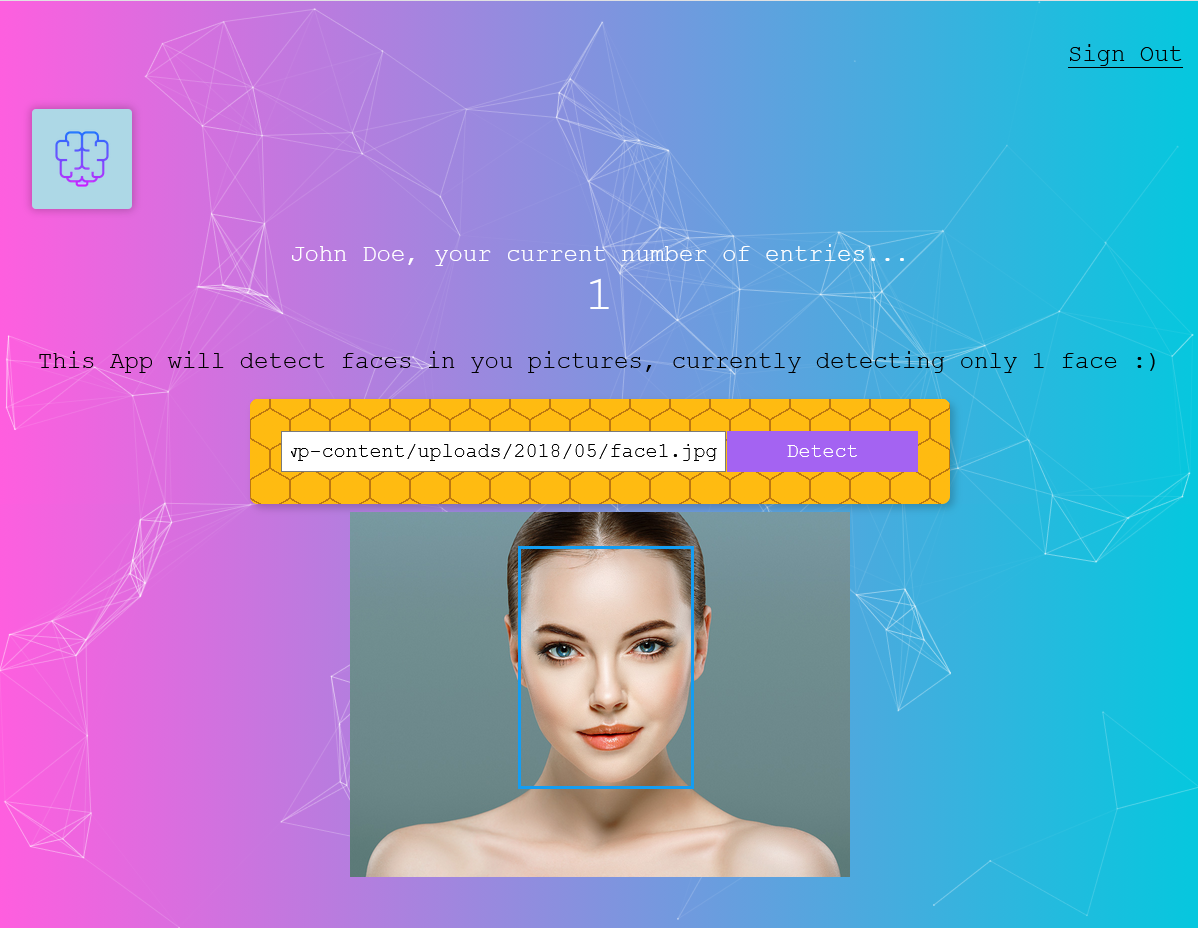
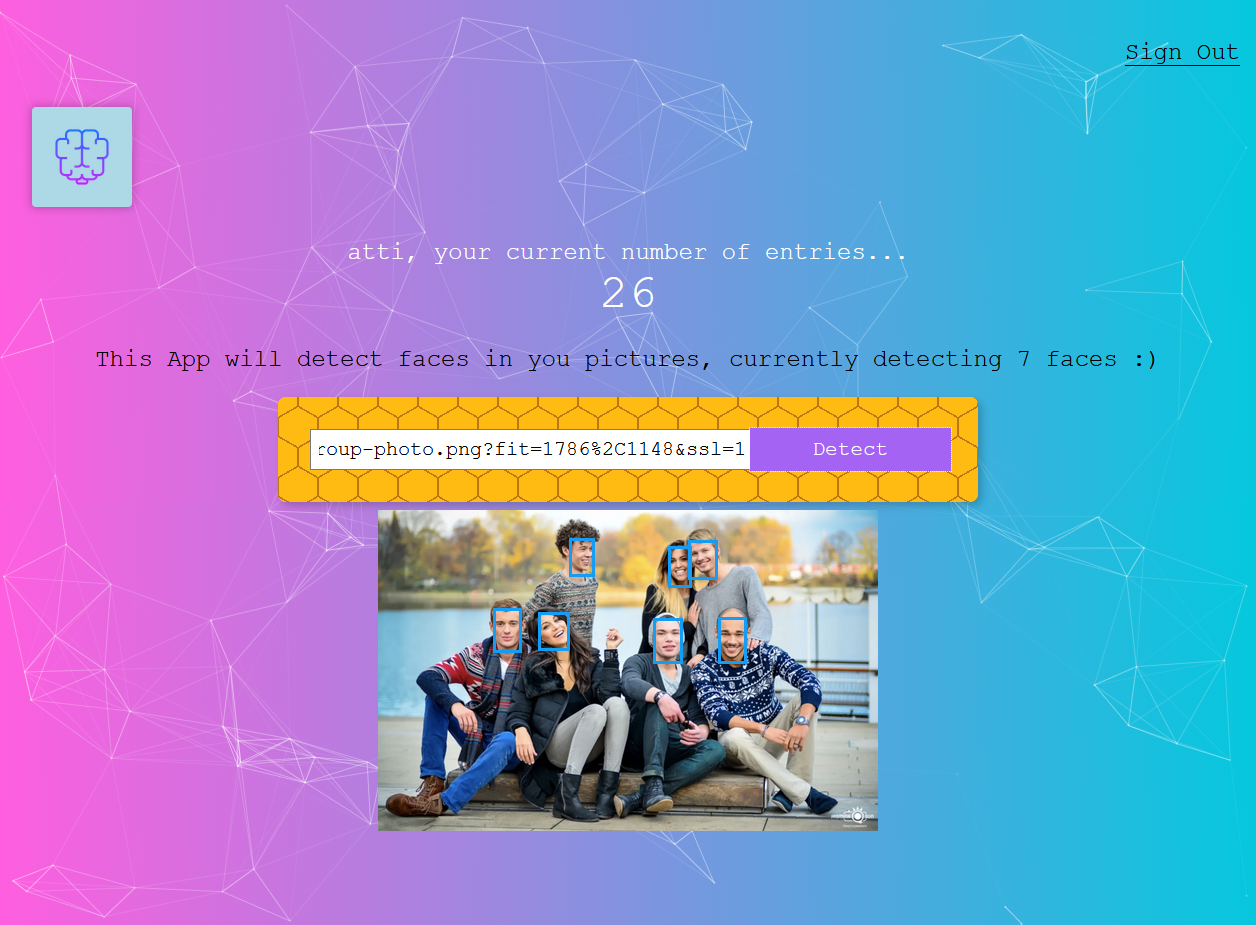
added multiple face detection

diff --git a/src/App.js b/src/App.js
@@ -24,7 +24,8 @@ const particleConf = {
 const initialState = {
     input: '',
     imageUrl: '',
-    box: {},
+    boxes: [],
+    detected: 0,
     route: 'signin',
     isSignedIn: false,
     user: {
@@ -53,20 +54,23 @@ class App extends Component {
   }
 
   calculateFaceLocation = (data) => {
-    const clarifaiFace = data.outputs[0].data.regions[0].region_info.bounding_box;
+    const clariFaces = data.outputs[0].data.regions;
     const image = document.getElementById('inputimage');
     const width = Number(image.width);
     const height = Number(image.height);
-    return {
-      leftCol: clarifaiFace.left_col * width,
-      topRow: clarifaiFace.top_row * height,
-      rightCol: width - (clarifaiFace.right_col * width),
-      bottomRow: height - (clarifaiFace.bottom_row * height)
-    }
+    this.setState({detected: clariFaces.length})
+    return clariFaces.map(face => {
+      return {
+        leftCol: face.region_info.bounding_box.left_col * width,
+        topRow: face.region_info.bounding_box.top_row * height,
+        rightCol: width - (face.region_info.bounding_box.right_col * width),
+        bottomRow: height - (face.region_info.bounding_box.bottom_row * height)
+      }
+    })
   }
 
-  displayFaceBox = (box) => {
-    this.setState({box: box});
+  displayFaceBox = (boxes) => {
+    this.setState({boxes: boxes});
   }
 
   onInputChange = (event) => {
@@ -113,7 +117,7 @@ class App extends Component {
   }
 
   render() {
-    const { isSignedIn, imageUrl, route, box } = this.state;
+    const { isSignedIn, imageUrl, route, boxes, detected } = this.state;
     return (
       <div className="App">
         <Particles className='particles'
@@ -128,8 +132,9 @@ class App extends Component {
             <ImageLinkForm 
               onInputChange={this.onInputChange}
               onButtonSubmit={this.onButtonSubmit}
+              detected={detected}
             />
-            <FaceRecognition box={box} imageUrl={imageUrl} />
+            <FaceRecognition boxes={boxes} imageUrl={imageUrl} />
          </div>
          : (
            route === 'signin'

diff --git a/src/components/FaceRecognition/FaceRecognition.js b/src/components/FaceRecognition/FaceRecognition.js
@@ -1,12 +1,15 @@
 import React from 'react';
 import './FaceRecognition.css';
 
-const FaceRecognition = ({ imageUrl, box }) => {
+const FaceRecognition = ({ imageUrl, boxes }) => {
     return (
         <div className='center ma'>
             <div className='absolute mt2'>
                 <img id='inputimage' alt='Face Recognition' src={ imageUrl } width='500px' height='auto' />
-                <div className='bounding-box' style={{top: box.topRow, right: box.rightCol, bottom: box.bottomRow, left: box.leftCol}}></div>
+                {boxes.map(box => {
+                return <div key={box.topRow} className='bounding-box' style={{top: box.topRow, right: box.rightCol, bottom: box.bottomRow, left: box.leftCol}}></div>
+                })
+                }
             </div>
         </div>
     );

diff --git a/src/components/ImageLinkForm/ImageLinkForm.js b/src/components/ImageLinkForm/ImageLinkForm.js
@@ -1,11 +1,11 @@
 import React from 'react';
 import './ImageLinkForm.css';
 
-const ImageLinkForm = ({ onInputChange, onButtonSubmit }) => {
+const ImageLinkForm = ({ onInputChange, onButtonSubmit, detected }) => {
     return (
         <div>
             <p className='f3'>
-                {'This App will detect faces in you pictures, currently detecting only 1 face :)'}
+                {`This App will detect faces in you pictures, currently detecting ${ detected } faces :)`}
             </p>
             <div className='center'>
                 <div className='form center pa4 br3 shadow-5'>
